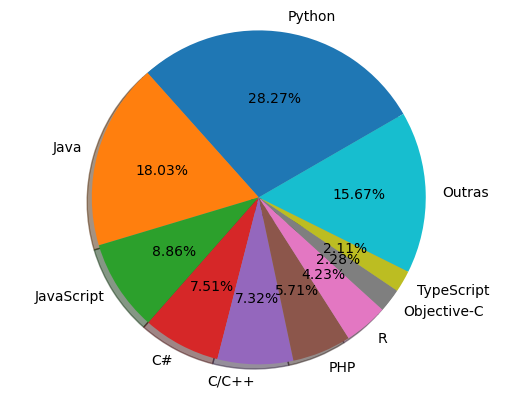
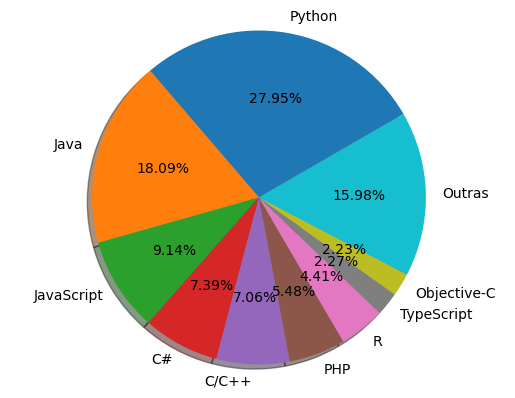
Build site at 2022-04-12 11:40:30 UTC

diff --git a/docs/popularidade/index.html b/docs/popularidade/index.html
@@ -1415,169 +1415,169 @@
     <tr>
       <td style="text-align: center">1</td>
       <td style="text-align: left">Python</td>
-      <td style="text-align: center">28.27</td>
-      <td style="text-align: center">-2.0</td>
+      <td style="text-align: center">27.95</td>
+      <td style="text-align: center">-2.2</td>
     </tr>
     <tr>
       <td style="text-align: center">2</td>
       <td style="text-align: left">Java</td>
-      <td style="text-align: center">18.03</td>
-      <td style="text-align: center">+0.8</td>
+      <td style="text-align: center">18.09</td>
+      <td style="text-align: center">+0.6</td>
     </tr>
     <tr>
       <td style="text-align: center">3</td>
       <td style="text-align: left">JavaScript</td>
-      <td style="text-align: center">8.86</td>
-      <td style="text-align: center">+0.4</td>
+      <td style="text-align: center">9.14</td>
+      <td style="text-align: center">+0.5</td>
     </tr>
     <tr>
       <td style="text-align: center">4</td>
       <td style="text-align: left">C#</td>
-      <td style="text-align: center">7.51</td>
-      <td style="text-align: center">+0.6</td>
+      <td style="text-align: center">7.39</td>
+      <td style="text-align: center">+0.5</td>
     </tr>
     <tr>
       <td style="text-align: center">5</td>
       <td style="text-align: left">C/C++</td>
-      <td style="text-align: center">7.32</td>
-      <td style="text-align: center">+0.6</td>
+      <td style="text-align: center">7.06</td>
+      <td style="text-align: center">+0.4</td>
     </tr>
     <tr>
       <td style="text-align: center">6</td>
       <td style="text-align: left">PHP</td>
-      <td style="text-align: center">5.71</td>
-      <td style="text-align: center">-0.4</td>
+      <td style="text-align: center">5.48</td>
+      <td style="text-align: center">-0.9</td>
     </tr>
     <tr>
       <td style="text-align: center">7</td>
       <td style="text-align: left">R</td>
-      <td style="text-align: center">4.23</td>
+      <td style="text-align: center">4.41</td>
       <td style="text-align: center">+0.5</td>
     </tr>
     <tr>
       <td style="text-align: center">8</td>
-      <td style="text-align: left">Objective-C</td>
-      <td style="text-align: center">2.28</td>
-      <td style="text-align: center">-1.2</td>
+      <td style="text-align: left">TypeScript</td>
+      <td style="text-align: center">2.27</td>
+      <td style="text-align: center">+0.5</td>
     </tr>
     <tr>
       <td style="text-align: center">9</td>
-      <td style="text-align: left">TypeScript</td>
-      <td style="text-align: center">2.11</td>
-      <td style="text-align: center">+0.3</td>
+      <td style="text-align: left">Objective-C</td>
+      <td style="text-align: center">2.23</td>
+      <td style="text-align: center">-0.3</td>
     </tr>
     <tr>
       <td style="text-align: center">10</td>
       <td style="text-align: left">Swift</td>
-      <td style="text-align: center">2.01</td>
+      <td style="text-align: center">2.06</td>
       <td style="text-align: center">+0.2</td>
     </tr>
     <tr>
       <td style="text-align: center">11</td>
       <td style="text-align: left">Matlab</td>
-      <td style="text-align: center">1.87</td>
-      <td style="text-align: center">+0.2</td>
+      <td style="text-align: center">1.84</td>
+      <td style="text-align: center">+0.1</td>
     </tr>
     <tr>
       <td style="text-align: center">12</td>
       <td style="text-align: left">Kotlin</td>
-      <td style="text-align: center">1.57</td>
-      <td style="text-align: center">-0.1</td>
+      <td style="text-align: center">1.59</td>
+      <td style="text-align: center">-0.2</td>
     </tr>
     <tr>
       <td style="text-align: center">13</td>
       <td style="text-align: left">Go</td>
-      <td style="text-align: center">1.19</td>
+      <td style="text-align: center">1.27</td>
       <td style="text-align: center">-0.1</td>
     </tr>
     <tr>
       <td style="text-align: center">14</td>
       <td style="text-align: left">Rust</td>
-      <td style="text-align: center">1.14</td>
-      <td style="text-align: center">+0.2</td>
+      <td style="text-align: center">1.25</td>
+      <td style="text-align: center">+0.3</td>
     </tr>
     <tr>
       <td style="text-align: center">15</td>
       <td style="text-align: left">Ruby</td>
-      <td style="text-align: center">1.12</td>
-      <td style="text-align: center">-0.0</td>
+      <td style="text-align: center">1.09</td>
+      <td style="text-align: center">-0.1</td>
     </tr>
     <tr>
       <td style="text-align: center">16</td>
       <td style="text-align: left">VBA</td>
-      <td style="text-align: center">1.1</td>
-      <td style="text-align: center">-0.1</td>
+      <td style="text-align: center">1.07</td>
+      <td style="text-align: center">-0.2</td>
     </tr>
     <tr>
       <td style="text-align: center">17</td>
       <td style="text-align: left">Ada</td>
-      <td style="text-align: center">0.79</td>
+      <td style="text-align: center">0.8</td>
       <td style="text-align: center">+0.1</td>
     </tr>
     <tr>
       <td style="text-align: center">18</td>
-      <td style="text-align: left">Abap</td>
-      <td style="text-align: center">0.68</td>
-      <td style="text-align: center">+0.2</td>
+      <td style="text-align: left">Scala</td>
+      <td style="text-align: center">0.69</td>
+      <td style="text-align: center">+0.1</td>
     </tr>
     <tr>
       <td style="text-align: center">19</td>
       <td style="text-align: left">Dart</td>
-      <td style="text-align: center">0.67</td>
+      <td style="text-align: center">0.69</td>
       <td style="text-align: center">+0.1</td>
     </tr>
     <tr>
       <td style="text-align: center">20</td>
-      <td style="text-align: left">Visual Basic</td>
-      <td style="text-align: center">0.64</td>
-      <td style="text-align: center">-0.0</td>
+      <td style="text-align: left">Abap</td>
+      <td style="text-align: center">0.67</td>
+      <td style="text-align: center">+0.1</td>
     </tr>
     <tr>
       <td style="text-align: center">21</td>
-      <td style="text-align: left">Scala</td>
-      <td style="text-align: center">0.61</td>
-      <td style="text-align: center">+0.0</td>
+      <td style="text-align: left">Visual Basic</td>
+      <td style="text-align: center">0.62</td>
+      <td style="text-align: center">-0.1</td>
     </tr>
     <tr>
       <td style="text-align: center">22</td>
       <td style="text-align: left">Lua</td>
-      <td style="text-align: center">0.47</td>
+      <td style="text-align: center">0.5</td>
       <td style="text-align: center">-0.1</td>
     </tr>
     <tr>
       <td style="text-align: center">23</td>
-      <td style="text-align: left">Perl</td>
-      <td style="text-align: center">0.46</td>
-      <td style="text-align: center">-0.0</td>
+      <td style="text-align: left">Groovy</td>
+      <td style="text-align: center">0.44</td>
+      <td style="text-align: center">+0.1</td>
     </tr>
     <tr>
       <td style="text-align: center">24</td>
-      <td style="text-align: left">Groovy</td>
-      <td style="text-align: center">0.45</td>
-      <td style="text-align: center">+0.1</td>
+      <td style="text-align: left">Perl</td>
+      <td style="text-align: center">0.43</td>
+      <td style="text-align: center">-0.0</td>
     </tr>
     <tr>
       <td style="text-align: center">25</td>
       <td style="text-align: left">Julia</td>
-      <td style="text-align: center">0.34</td>
-      <td style="text-align: center">-0.0</td>
+      <td style="text-align: center">0.39</td>
+      <td style="text-align: center">+0.0</td>
     </tr>
     <tr>
       <td style="text-align: center">26</td>
       <td style="text-align: left">Haskell</td>
-      <td style="text-align: center">0.32</td>
+      <td style="text-align: center">0.29</td>
       <td style="text-align: center">+0.1</td>
     </tr>
     <tr>
       <td style="text-align: center">27</td>
       <td style="text-align: left">Cobol</td>
-      <td style="text-align: center">0.24</td>
-      <td style="text-align: center">-0.1</td>
+      <td style="text-align: center">0.29</td>
+      <td style="text-align: center">-0.0</td>
     </tr>
   </tbody>
 </table>
 
-<p class="small"><strong><em>Mundialmente em março de 2022, comparado a um ano antes</em></strong></p>
+<p class="small"><strong><em>Mundialmente em abril de 2022, comparado a um ano antes</em></strong></p>
 
 
   
@@ -1585,7 +1585,7 @@
 
 <hr>
 <p class="small">
-  <i> Página atualizada em 02/03/22</i>
+  <i> Página atualizada em 12/04/22</i>
 </p>
 
 

diff --git a/docs/index.html b/docs/index.html
@@ -1436,7 +1436,7 @@
 
 </div>
 
-<p class="small"><strong><em>Última atualização: 08/03/2022 09:22:24</em></strong></p>
+<p class="small"><strong><em>Última atualização: 12/04/2022 08:40:18</em></strong></p>
 
 
 

diff --git a/material/sobre/01-introdução.md b/material/sobre/01-introdução.md
@@ -4,7 +4,7 @@ parent: sobre
 nav_order: 0
 tags: [introdução, pypl, python, popularity]
 permalink: /popularidade/
-timestamp: '02/03/22'
+timestamp: '12/04/22'
 ---
 
 Python é a linguagem mais popular e a que mais cresce mundialmente
@@ -18,33 +18,33 @@ O **índice PYPL** (*PopularitY of Programming Language*) é obtido analisando a
 
 | Posição	| Linguagem |	Fatia (%)	| Tendência (%) |
 |:-------:|:--------- |:-----:|:---------:|
-| 1 | Python |          28.27  | -2.0  |
-| 2 | Java |          18.03  | +0.8  |
-| 3 | JavaScript |          8.86  | +0.4  |
-| 4 | C# |          7.51  | +0.6  |
-| 5 | C/C++ |          7.32  | +0.6  |
-| 6 | PHP |          5.71  | -0.4  |
-| 7 | R |          4.23  | +0.5  |
-| 8 | Objective-C |          2.28  | -1.2  |
-| 9 | TypeScript |          2.11  | +0.3  |
-| 10 | Swift |          2.01  | +0.2  |
-| 11 | Matlab |          1.87  | +0.2  |
-| 12 | Kotlin |          1.57  | -0.1  |
-| 13 | Go |          1.19  | -0.1  |
-| 14 | Rust |          1.14  | +0.2  |
-| 15 | Ruby |          1.12  | -0.0  |
-| 16 | VBA |          1.1  | -0.1  |
-| 17 | Ada |          0.79  | +0.1  |
-| 18 | Abap |          0.68  | +0.2  |
-| 19 | Dart |          0.67  | +0.1  |
-| 20 | Visual Basic |          0.64  | -0.0  |
-| 21 | Scala |          0.61  | +0.0  |
-| 22 | Lua |          0.47  | -0.1  |
-| 23 | Perl |          0.46  | -0.0  |
-| 24 | Groovy |          0.45  | +0.1  |
-| 25 | Julia |          0.34  | -0.0  |
-| 26 | Haskell |          0.32  | +0.1  |
-| 27 | Cobol |          0.24  | -0.1  |
+| 1 | Python |          27.95  | -2.2  |
+| 2 | Java |          18.09  | +0.6  |
+| 3 | JavaScript |          9.14  | +0.5  |
+| 4 | C# |          7.39  | +0.5  |
+| 5 | C/C++ |          7.06  | +0.4  |
+| 6 | PHP |          5.48  | -0.9  |
+| 7 | R |          4.41  | +0.5  |
+| 8 | TypeScript |          2.27  | +0.5  |
+| 9 | Objective-C |          2.23  | -0.3  |
+| 10 | Swift |          2.06  | +0.2  |
+| 11 | Matlab |          1.84  | +0.1  |
+| 12 | Kotlin |          1.59  | -0.2  |
+| 13 | Go |          1.27  | -0.1  |
+| 14 | Rust |          1.25  | +0.3  |
+| 15 | Ruby |          1.09  | -0.1  |
+| 16 | VBA |          1.07  | -0.2  |
+| 17 | Ada |          0.8  | +0.1  |
+| 18 | Scala |          0.69  | +0.1  |
+| 19 | Dart |          0.69  | +0.1  |
+| 20 | Abap |          0.67  | +0.1  |
+| 21 | Visual Basic |          0.62  | -0.1  |
+| 22 | Lua |          0.5  | -0.1  |
+| 23 | Groovy |          0.44  | +0.1  |
+| 24 | Perl |          0.43  | -0.0  |
+| 25 | Julia |          0.39  | +0.0  |
+| 26 | Haskell |          0.29  | +0.1  |
+| 27 | Cobol |          0.29  | -0.0  |
 
-***Mundialmente em março de 2022, comparado a um ano antes***
+***Mundialmente em abril de 2022, comparado a um ano antes***
 {: .small}
